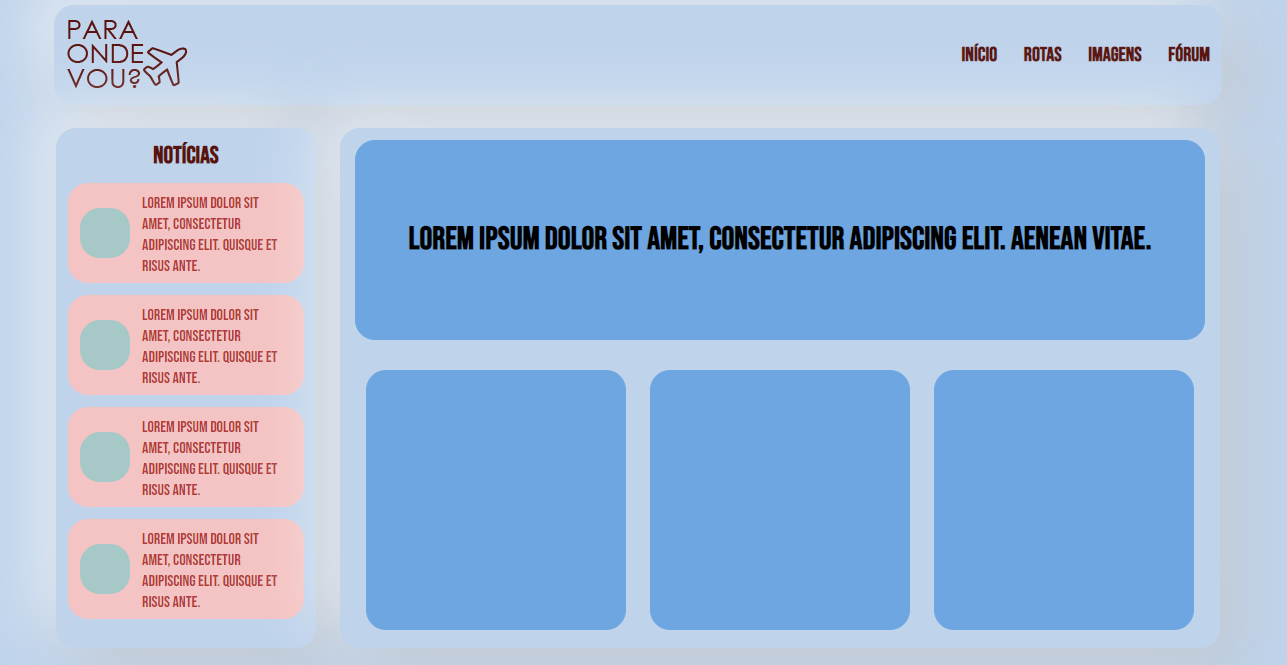
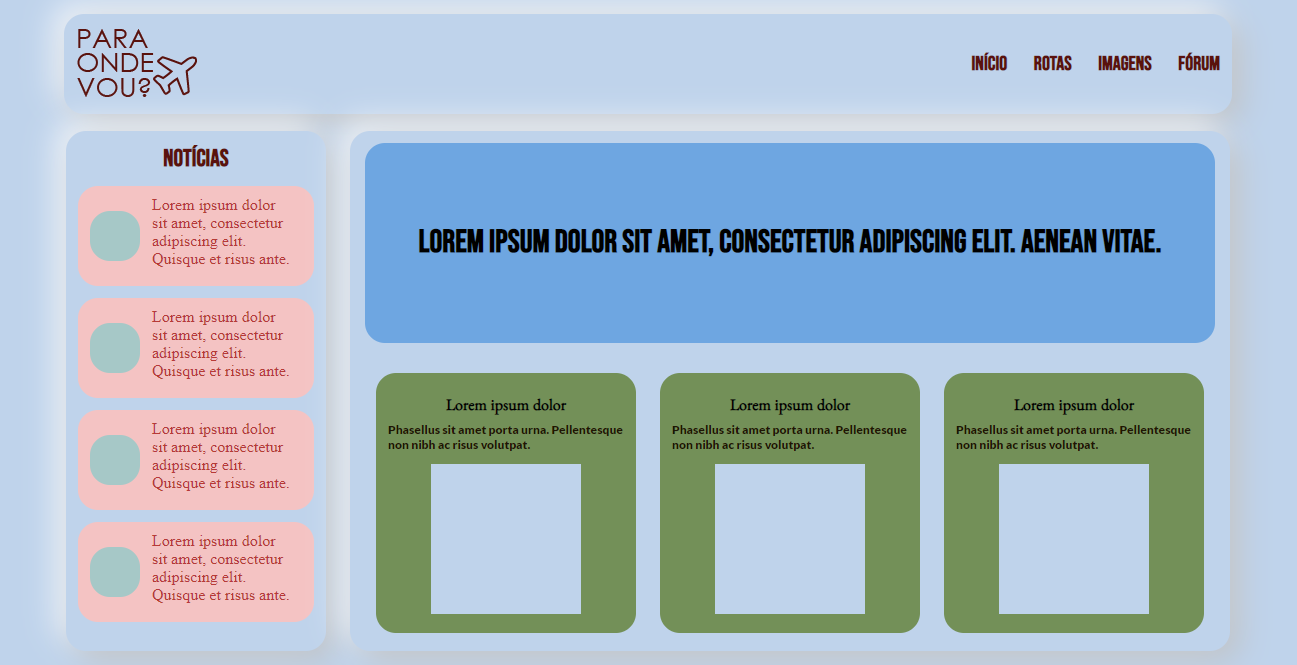
Complementando a landing-page

diff --git a/landing-page.html b/landing-page.html
@@ -49,10 +49,24 @@
                 <div class="CAPA">
                     <h1>Lorem ipsum dolor sit amet, consectetur adipiscing elit. Aenean vitae.</h1>
                 </div>
-                <div class="CARDS"></div>
-                <div class="CARDS"></div>
-                <div class="CARDS"></div>
-                
+                <div class="CARDS">
+                    <h4>Lorem ipsum dolor</h4>
+                    <h5>Phasellus sit amet porta urna. Pellentesque non nibh 
+                        ac risus volutpat.</h5>
+                    <div class="imagem-container"></div>
+                </div>
+                <div class="CARDS">
+                    <h4>Lorem ipsum dolor</h4>
+                    <h5>Phasellus sit amet porta urna. Pellentesque non nibh 
+                        ac risus volutpat.</h5>
+                    <div class="imagem-container"></div>
+                </div>
+                <div class="CARDS">
+                    <h4>Lorem ipsum dolor</h4>
+                    <h5>Phasellus sit amet porta urna. Pellentesque non nibh 
+                        ac risus volutpat.</h5>
+                    <div class="imagem-container"></div>
+                </div>
             </div>    
         </main>
     </body>

diff --git a/styles.css b/styles.css
@@ -1,4 +1,6 @@
 @import url('https://fonts.googleapis.com/css2?family=Bebas+Neue&display=swap');
+@import url('https://fonts.googleapis.com/css2?family=Benne&display=swap');
+@import url('https://fonts.googleapis.com/css2?family=Benne&family=Lato:wght@900&display=swap');
 :root{
     --azul: #0170D9;
     --azul-medio: #6EA6E1;
@@ -18,8 +20,8 @@
     --espaco: 12px;
     --radius: 20px;
 
-    --sombras:20px 20px 60px #bebebe96,
-    -20px -20px 60px #ffffff96;
+    --sombras:10px 10px 30px #bebebece,
+    -10px -10px 30px #ffffffc4;
 }
 
 *{
@@ -142,7 +144,31 @@ p{
     margin: var(--espaco);
     width: 260px;
     height: 260px;
-    background-color: var(--azul-medio);
+    background-color: var(--verde-medio);
     border-radius: var(--radius);
+    display: flex;
+    flex-direction: column;
+    justify-content: center;
+    align-items: center;
 }
+.CARDS h4{
+    font-family: 'Benne', serif;
+    background: none;
+    text-align: center;
+    margin-top: 12px;
+}
+.CARDS h5{
+    font-size: 12px;
+    font-family: 'Lato', sans-serif;
+    margin-left: var(--espaco);
+    color: #1F1503;
+    background: none;
+}
+.imagem-container{
+    margin: var(--espaco);
+    height: 150px;
+    width: 150px;
+}
+
+
 
